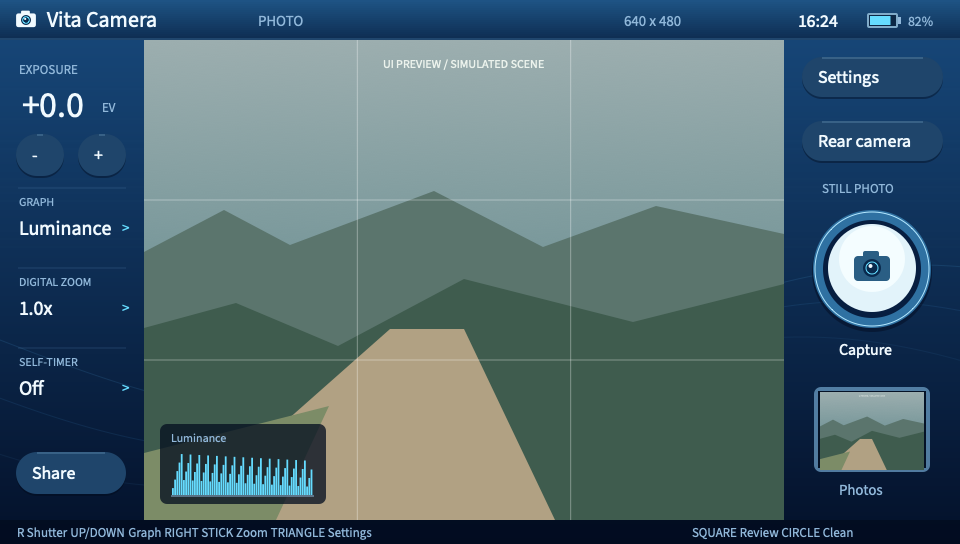
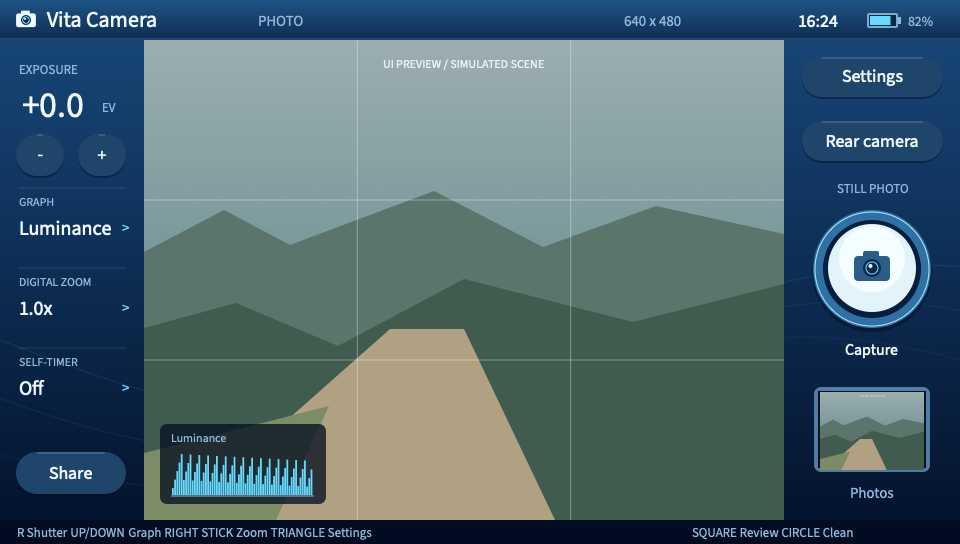
Refresh project guide and device validation notes

diff --git a/docs/device-testing.md b/docs/device-testing.md
@@ -1,54 +1,54 @@
 # Device checks
 
-## Build verification
+## Validation status
 
-- Native macOS ARM64 VitaSDK 2026.08; GCC 15.2.0.
-- ARM executable links and packages as `VITACAM01`.
-- Host capture checks pass, including RGB PNG round-trip equality.
-- Camera and settings layouts inspected using shared C++ SVG output.
-- VPK copied to the connected Vita's 8 GB Memory Card as `VitaCamera.vpk` at the root; source and destination SHA-256 hashes match. The initial copy also exists in `data/vita-cam.vpk`.
-- With SD2Vita, the exported Memory Card may be secondary storage. Confirm the VitaShell mount before looking under `ux0:`.
-- Initial on-device launch crashed. The original ARM executable omitted weakly referenced pthread functions, including `pthread_cancel` and condition-variable operations.
-- Linking the complete pthread archive resolves those functions. A post-link check rejects unresolved pthread functions; it fails against the original executable and passes against the corrected build.
-- Startup logging now begins before graphics and worker construction. Target binaries retain debug symbols locally for crash analysis.
-- Corrected package version `01.01` (app `0.1.1`) copied to both VPK locations on the shared Memory Card; hashes match the build.
-- SD2Vita dump `psp2core-1791805962-0x00001a2f3d-eboot.bin.psp2dmp` confirms an uncaught exception from `CaptureWriter` → `std::thread::_M_start_thread` → `__cxa_throw` → terminate → abort. The reported undefined instruction is newlib's intentional abort trap, not an unsupported CPU instruction.
-- The installed executable's SHA-256 matched the preserved original VPK. Stack addresses were adjusted for the dump's relocated module base and resolved against that original ELF.
-- Corrected executable and version metadata installed directly to `ux0:app/VITACAM01`; verified against the new VPK. Matching `VitaCamera.vpk` copied to SD2Vita's root. SD2Vita safely ejected before the launch check.
-- Corrected on-device launch and photo capture confirmed by the user.
-- Retrieved three 960 × 544 PS + START screenshots from `picture/SCREENSHOT` on SD2Vita (2026-10-12, 14:28). Camera and both Settings tabs show stair-stepped curves and uneven scaled PGF text. Local references are in ignored `build/device-screenshots/before/`.
-- Version `01.02` adds 4× MSAA, triangle-based rounded corners/rings/lines, per-size FreeType text and filtering for loaded thumbnails. The user confirmed improved on-device appearance.
-- Installed `01.02` executable, font, license and metadata directly to `app/VITACAM01`; all bytes verified against the VPK. Matching `VitaCamera.vpk` copied to SD2Vita's root; volume safely ejected. Working `01.01` files and VPK preserved in ignored `build/device-backup/01.01/`.
-- The `01.02` device log confirms WB modes 1 and 2 succeed; mode 4 returns `SCE_CAMERA_ERROR_PARAM` (`0x802e0000`). Setting cycles now skip parameter/range rejections rather than getting stuck on that value. No replacement WB ID is guessed.
-- Version `01.03` adds graph cycling, 1–4× digital zoom with separate exports, gallery browsing and QR-based Wi-Fi sharing. Native build and all four host suites pass. Mobile WebKit checks confirm a 393-pixel layout without horizontal overflow, 44-pixel download targets, pagination, full-size PNG viewing and successful PNG downloads. Actual Vita-to-iPhone transfer and control behavior remain to be tested.
-- Installed `01.03` executable, version metadata and licenses to `app/VITACAM01`, with matching `VitaCamera.vpk` at SD2Vita's root. All copied files verified; SD2Vita safely ejected. Rollback files are in `build/device-backup/01.02/`; matching debug ELF and VPK are preserved in `build/device-builds/01.03/`.
+| Area | Evidence |
+| --- | --- |
+| Launch and photo capture | Confirmed on the connected Vita after the 01.01 threading fix. |
+| Curves and text rendering | User confirmed improved appearance with 01.02. |
+| iPhone sharing | User confirmed wireless photo sharing works with 01.03. Mobile WebKit checks also covered layout, pagination, image viewing and PNG downloads. |
+| 01.04 preview pixels | Host NEON and scalar tests match the reference for all looks, mirror modes and warning combinations, including padded texture strides. |
+| 01.04 text alignment | Actual FreeType raster bounds center labels within one pixel, including signs, capitals and descenders at multiple sizes. Shared SVG layouts inspected in WebKit. |
+| Build and regression checks | Native VitaSDK ARM build and pthread link check pass. All seven host suites pass. |
+| 01.04 performance | Host benchmark recorded in [performance.md](performance.md). Vita responsiveness and final native screenshots await testing. |
 
-## On the Vita
+Build environment: macOS ARM64, VitaSDK 2026.08, GCC 15.2. Title ID: `VITACAM01`; current package: `01.04` (app `0.1.4`).
 
-1. Launch; confirm rear preview is upright and responsive.
-2. Take a photo with R. Confirm **Photo saved**, then Square for review.
-3. Browse older photos with Left/Right and swipe. Zoom with the right stick and pan with the left stick; Circle returns.
-4. Switch with L. Confirm front preview orientation and natural exported orientation.
-5. Adjust EV and WB; compare scene response and `session.log` setter/getter results.
-6. Select Warm, take a photo, check original PNG, Warm PNG and JSON in `photos`.
-7. Enable guides and warnings; verify they appear only in preview.
-8. Try both timers and cancel with Circle; no capture should occur after cancellation.
-9. Suspend/resume and return from LiveArea; preview should recover.
-10. Reopen; verify settings and last shot persist.
-11. Cycle Up/Down through Luminance, RGB, Waveform and Off. Confirm the graph follows the zoomed composition.
-12. Zoom with the right stick and capture. Verify the `-Zoom` copy matches the framing and its original retains the full view.
-13. In Settings, cycle white balance in both directions; unsupported modes should be skipped without repeated popups.
-14. Open Share on the same Wi-Fi network as the iPhone. Scan the QR code, view an older photo, save it to Photos and compare downloaded PNG bytes if exported back to the computer.
-15. Exit Share during a download; the app should return promptly. Test Wi-Fi loss and suspension, then Retry with a new session code.
+The 01.04 profiling build was copied to the connected SD2Vita and verified against the VPK, then the volume was safely ejected. The matching ELF/package are in `build/device-builds/01.04-profile/`; 01.03 rollback files are in `build/device-backup/01.03/`.
 
-## UI iteration
+## Release checks on Vita
 
-Capture the camera and Settings with PS + START, then share SD2Vita through VitaShell. Retrieve the relevant PNGs under `picture/SCREENSHOT`; inspect at native 960 × 544 resolution. Check small labels, title text, button corners, shutter ring and thumbnail edges. Confirm the camera remains responsive and R still saves a photograph. Safely eject the volume before stopping USB sharing. The SVG preview does not reproduce the Vita's GPU/font rendering.
+1. Launch and pan the camera with warnings Off, Highlights, Shadows and both. Compare responsiveness in the same scene, including bright and dark areas. Repeat with Waveform and a color look enabled.
+2. Check button labels, exposure signs, settings tabs, shutter and gallery controls at 960 × 544. Capture camera and Settings with **PS + START**.
+3. Take a photo with R. After **Photo saved**, browse older photos using Left/Right and swipe. Zoom with the right stick; pan with the left stick; hold Select to compare the original.
+4. Switch cameras. Check preview and exported orientation; saved selfies remain unmirrored.
+5. Cycle EV, WB, ISO and anti-flicker. Unsupported modes should be skipped without repeated popups.
+6. Capture with a color look and digital zoom. Check the full-frame original, edited/zoomed PNG and JSON; guides and warnings must be absent from saved images.
+7. Try both timers, cancel, reopen the app and suspend/resume. Confirm preferences persist and the camera recovers.
+8. Share to iPhone, save a photograph, then exit Share during another transfer. Test Wi-Fi loss and Retry with a fresh session link.
+
+For timing logs, use the [profiling build](performance.md#vita-timings). Leave each warning combination on the camera screen for at least ten seconds before changing settings.
+
+## Retrieving evidence
+
+Close the app, enable VitaShell USB for the storage containing `ux0:`, then retrieve only relevant files:
+
+- `data/VitaCamera/session.log` and `settings.ini`.
+- Requested captures and their JSON from `data/VitaCamera/photos/`.
+- Relevant **PS + START** images from `picture/SCREENSHOT/`.
+
+Verify transferred packages against their source, then **safely eject on the computer before stopping USB sharing**. With SD2Vita active, an exported Memory Card may instead be mounted as `uma0:`.
+
+Local device logs, screenshots, matching debug ELFs and rollback packages stay in ignored `build/` subdirectories. Do not publish user photographs or device dumps.
+
+## Known hardware findings
+
+- The initial startup dump traced to `std::thread::_M_start_thread`: weak pthread references were omitted by static archive extraction. Linking the whole pthread archive fixes startup; `scripts/check-vita-link.cmake` prevents recurrence. The dump's undefined instruction was the abort trap, not an unsupported CPU instruction.
+- On this Vita, WB modes 0, 1 and 2 work; SDK mode 4 returns `SCE_CAMERA_ERROR_PARAM` (`0x802e0000`). Mode cycling skips parameter/range rejections without hard-coded exclusions.
+- The 01.03 user report identified severe lag with both warning modes. The 01.04 renderer removes repeated frame processing/copies and batches UI geometry; a hardware speedup is not yet measured.
 
 ## Limits
 
-Stock-camera appearance, supported frame rates and control behavior need comparison on the actual unit. API success alone is not photographic calibration. No manual focus, shutter-duration control, RAW claim, AE/AWB lock, video, bracketing, intervalometer or native Photos import is implemented. Those belong to the later research work in the brief.
+Stock-camera appearance, delivered frame rates and exposure behavior need device comparison. API success is not photographic calibration. Metadata records requested ISO/WB/EV modes, not measured exposure values.
 
-The app stores only requested ISO/WB/EV modes. It does not invent EXIF exposure measurements. A scene can change while auto exposure settles. Saved front-camera images are unmirrored regardless of the preview preference.
-
-On an error, re-enable VitaShell USB and inspect only `data/VitaCamera/session.log`, `settings.ini` and the relevant photo/JSON pair. Do not copy unrelated device files.
+Manual focus, shutter-duration control, RAW, AE/AWB lock, video, bracketing, intervalometer and native Photos import are not implemented. The [research brief](../vita-cam.md) discusses later experiments.

diff --git a/README.md b/README.md
@@ -1,6 +1,6 @@
 # Vita Camera
 
-C++17 photo app for a homebrew PS Vita. Blue glass panels, native 4:3 framing, touch controls and physical shortcuts.
+C++17 photo app for a homebrew PS Vita. Blue glass panels, native 4:3 framing, touch controls and physical shortcuts. Built natively with VitaSDK.
 
 ![Interface preview with a simulated scene](docs/ui-preview.png)
 
@@ -19,6 +19,18 @@ C++17 photo app for a homebrew PS Vita. Blue glass panels, native 4:3 framing, t
 - Background saving, retained failed captures for retry, persistent preferences.
 
 Files live in `ux0:data/VitaCamera/photos`. Color looks never overwrite the original. Camera settings affect both versions; “original” means the delivered camera image before app processing, not RAW. Guides, warnings and UI stay out of exports.
+
+## Reading the graphs
+
+| Graph | What it shows |
+| --- | --- |
+| Luminance | Brightness distribution: dark pixels on the left, bright pixels on the right. Taller bars mean more pixels at that brightness. |
+| RGB | Separate red, green and blue distributions. A channel crowded against the right edge can indicate lost color detail. |
+| Waveform | Image position from left to right, brightness from bottom to top. Brighter marks mean more pixels at that position and brightness. |
+
+Graphs follow the current color look and zoomed framing, before warning overlays. They refresh at 10 Hz; Up/Down cycles through them and Off. Histogram heights are normalized within each graph.
+
+**Highlight zebras** mark pixels with any channel at 250/255 or above. **Shadow warnings** mark luma at 5/255 or below. They help locate possible clipping; they do not recover detail. Both are preview only.
 
 ## Controls
 
@@ -84,12 +96,19 @@ Updating the same title (`VITACAM01`) preserves photographs in the separate data
 
 ## Checks
 
-With CMake, a native C++ compiler and libpng:
+With CMake, a native C++ compiler, libpng and FreeType:
 
 ```sh
 sh scripts/check.sh
 ```
 
-Checks exercise capture/export pixels, zoom crops, graph sampling, preferences, timers and touch hits. Worker tests cover ownership, queue limits, retry and shutdown. Gallery tests cover grouping/order and incomplete files. HTTP tests use a loopback port and check download bytes, path restrictions, session rotation and interruptible shutdown. The same C++ drawing code produces `build-host/*.svg` for layout inspection with a simulated scene. `build-host/sharing_preview` serves generated sample images for browser testing; press Enter to stop it.
+Seven suites cover exports, preview pixels (NEON and scalar), text alignment, background saves, the gallery and HTTP sharing. HTTP tests need a local loopback socket. The shared C++ layout produces `build-host/*.svg` with a simulated scene. `build-host/sharing_preview` serves generated sample images for browser checks; press Enter to stop it.
 
-Hardware checks and limitations: [docs/device-testing.md](docs/device-testing.md). Design and implementation: [docs/architecture.md](docs/architecture.md). Original brief: [vita-cam.md](vita-cam.md).
+## Project guide
+
+- [Architecture](docs/architecture.md): modules, rendering and capture ownership.
+- [Performance](docs/performance.md): benchmark and optional Vita timing logs.
+- [Device checks](docs/device-testing.md): verified behavior and remaining checks.
+- [Research brief](vita-cam.md): hardware capabilities and future experiments.
+
+Build output, the local SDK, device logs and rollback packages are ignored by Git. Source lives in `src/` and `include/`; checks in `tests/`; packaged artwork and fonts in `assets/`.
